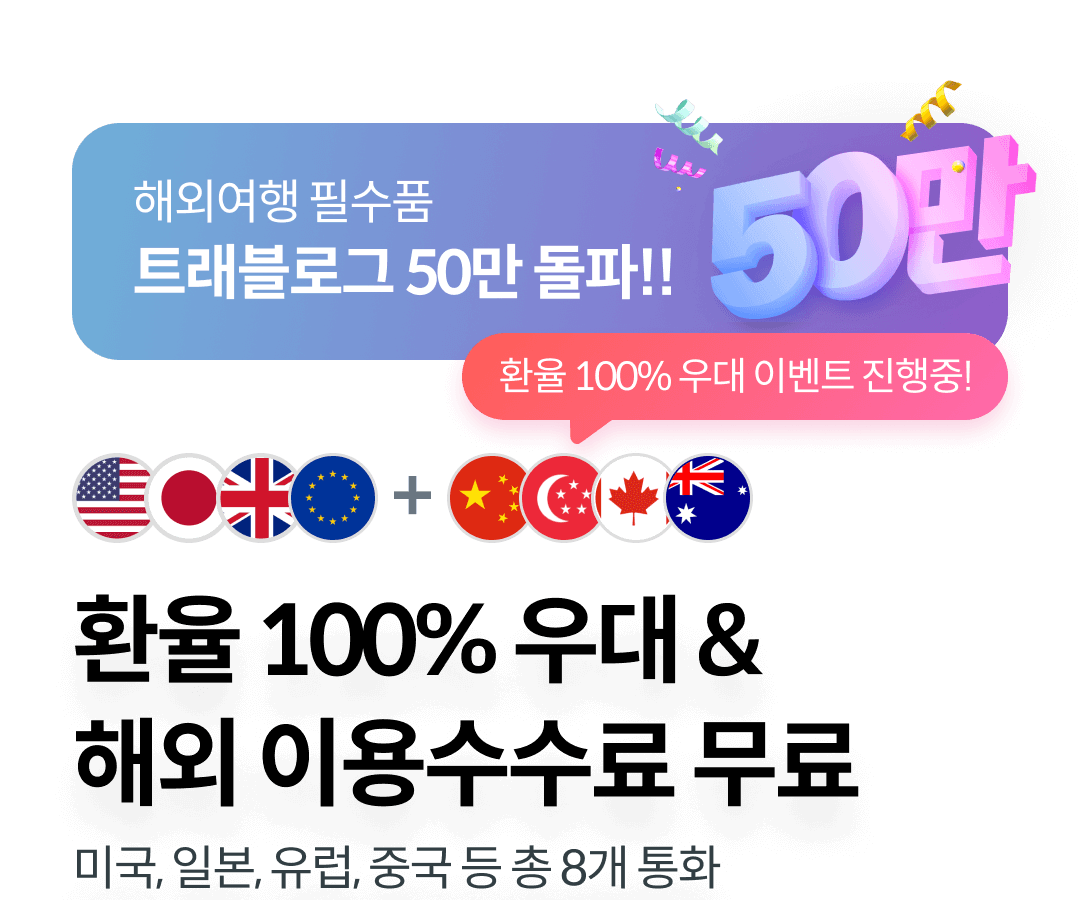
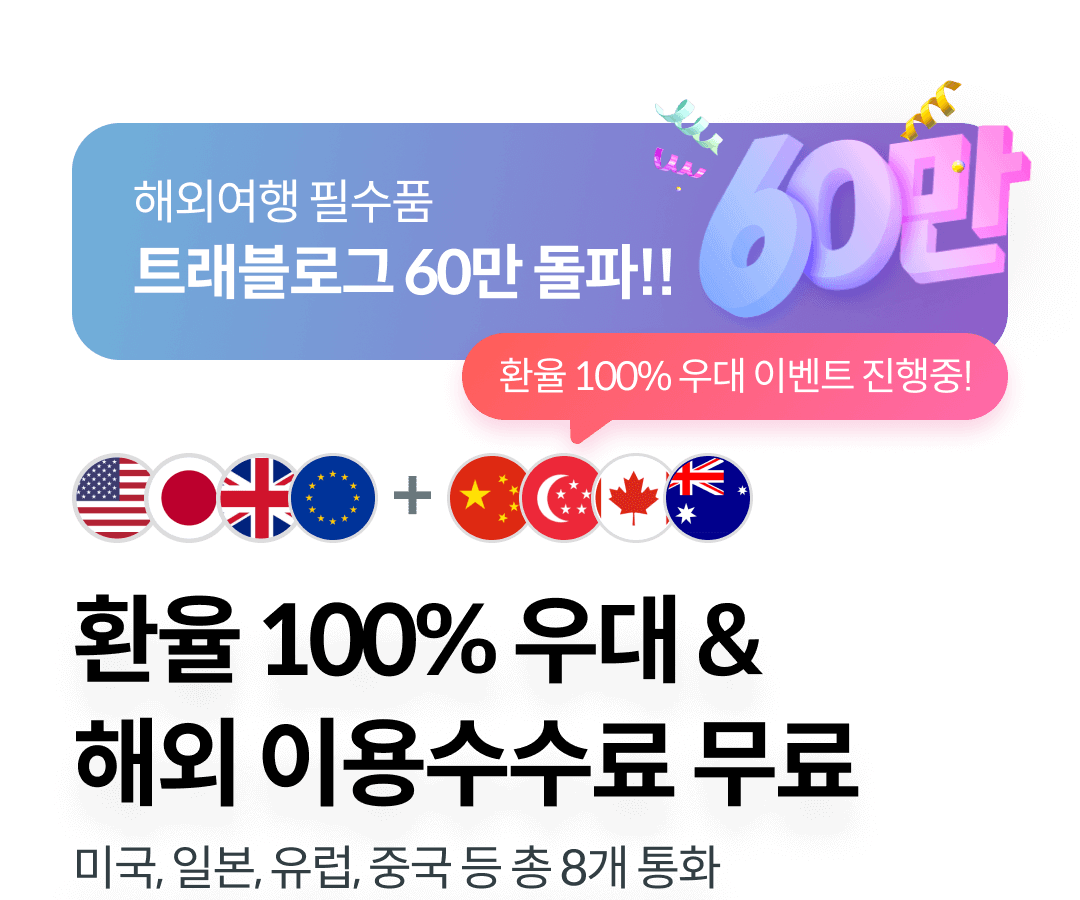
[HMN] 트래블로그가입유도팝업 문구변경

Changed region(s): [[0.6417, 0.1244, 0.9778, 0.3733], [0.3667, 0.28, 0.3972, 0.3422], [0.5806, 0.5289, 0.6111, 0.56]]

diff --git a/html/global/HMN/HMN_201_1.html b/html/global/HMN/HMN_201_1.html
@@ -30,7 +30,7 @@
         <!-- 22.09.13 변경 -->
         <div class="content_layer type_bg bg_hmn_201">
           <!-- 23.01.19 통이미지처리로 변경 -->
-          <img src="../../../images/global/bg_hmn_201.png" alt="해외여행 필수픔 트래블로그 50만돌파!! 환율 100% 우대 이벤트 진행중! 환율 100% 우대 & 해외 이용수수료 무료 미국, 일본, 유럽, 중국 등 총 8개 통화">
+          <img src="../../../images/global/bg_hmn_201.png" alt="해외여행 필수픔 트래블로그 60만돌파!! 환율 100% 우대 이벤트 진행중! 환율 100% 우대 & 해외 이용수수료 무료 미국, 일본, 유럽, 중국 등 총 8개 통화"><!-- 23.03.08 문구변경 -->
           <!-- // 23.01.19 통이미지처리로 변경 -->
           <div class="section_terms">
             <ul class="wrap_agree_list">

diff --git a/html/global/HMN/HMN_201_2.html b/html/global/HMN/HMN_201_2.html
@@ -30,7 +30,7 @@
         <!-- 22.09.13 변경 -->
         <div class="content_layer type_bg bg_hmn_201">
           <!-- 23.01.19 통이미지처리로 변경 -->
-          <img src="../../../images/global/bg_hmn_201.png" alt="해외여행 필수픔 트래블로그 50만돌파!! 환율 100% 우대 이벤트 진행중! 환율 100% 우대 & 해외 이용수수료 무료 미국, 일본, 유럽, 중국 등 총 8개 통화">
+          <img src="../../../images/global/bg_hmn_201.png" alt="해외여행 필수픔 트래블로그 50만돌파!! 환율 100% 우대 이벤트 진행중! 환율 100% 우대 & 해외 이용수수료 무료 미국, 일본, 유럽, 중국 등 총 8개 통화"><!-- 23.03.08 문구변경 -->
           <!-- // 23.01.19 통이미지처리로 변경 -->
         </div>
         <!-- // 22.09.13 변경 -->
